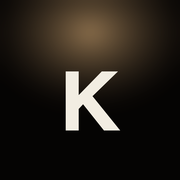
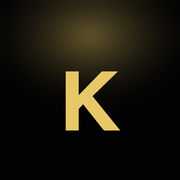
update

Changed region(s): [[0.25, 0.0, 0.75, 0.3056], [0.3611, 0.3889, 0.6667, 0.75]]

diff --git a/index.html b/index.html
@@ -5,26 +5,26 @@
 <meta name="viewport" content="width=device-width,initial-scale=1,viewport-fit=cover">
 <meta name="robots" content="noindex,nofollow">
 <meta name="referrer" content="no-referrer">
-<meta name="theme-color" content="#0c0907">
+<meta name="theme-color" content="#050505">
 <meta name="apple-mobile-web-app-capable" content="yes">
 <meta name="mobile-web-app-capable" content="yes">
 <meta name="apple-mobile-web-app-status-bar-style" content="black-translucent">
-<meta name="apple-mobile-web-app-title" content="Катин вечер">
+<meta name="apple-mobile-web-app-title" content="ДР Кати">
 <link rel="manifest" href="manifest.webmanifest">
 <link rel="apple-touch-icon" href="icon-180.png">
 <link rel="icon" href="icon-192.png">
-<title>Катин вечер</title>
+<title>День рождения Кати</title>
 <link rel="preconnect" href="https://fonts.googleapis.com">
 <link rel="stylesheet" href="https://fonts.googleapis.com/css2?family=Manrope:wght@400;500;600;700&display=swap">
 <style>
-/* App shell in VOLYO's language: top bar, screens, floating bottom menu with a round "+"; warm spotlight palette from Katya's photo */
+/* App shell in VOLYO's language: top bar, screens, floating bottom menu with a round "+"; deep black with gold accent */
 :root{
-  --bg:#0c0907; --fg:#F2EDE2; --muted:rgba(242,232,218,.58); --dim:rgba(242,232,218,.36);
+  --bg:#050505; --fg:#F2EDE2; --muted:rgba(242,232,218,.58); --dim:rgba(242,232,218,.36);
   --line:rgba(255,255,255,.08); --line-2:rgba(255,255,255,.14);
   --glass:linear-gradient(160deg,rgba(255,255,255,.04),rgba(255,255,255,.012)),rgba(0,0,0,.28);
   --hl:inset 0 1px 0 rgba(255,255,255,.06);
-  --amber:#e8a65c; --glow:#ffd394; --sage:#a9bb8c; --danger:#e07a6a;
-  --warm-line:rgba(255,214,150,.32);
+  --amber:#C9A227; --glow:#E8C766; --sage:#a9bb8c; --danger:#e07a6a;
+  --warm-line:rgba(212,175,55,.38);
   --font:Manrope,"Helvetica Neue",Arial,sans-serif;
   color-scheme:dark;
 }
@@ -36,7 +36,7 @@ body{margin:0;background:var(--bg);color:var(--fg);font-family:var(--font);font-
   padding-block:0 calc(120px + env(safe-area-inset-bottom,0px));min-height:100vh}
 body::before{content:"";position:fixed;inset:0 0 auto;height:env(safe-area-inset-top,0px);z-index:40;background:var(--bg)}
 body::after{content:"";position:fixed;z-index:-1;left:50%;top:-180px;width:min(760px,150vw);height:520px;transform:translateX(-50%);pointer-events:none;
-  background:radial-gradient(closest-side at 50% 30%,rgba(255,214,150,.30),rgba(232,166,92,.10) 45%,rgba(12,9,7,0) 75%)}
+  background:radial-gradient(closest-side at 50% 30%,rgba(232,199,102,.30),rgba(201,162,39,.10) 45%,rgba(5,5,5,0) 75%)}
 button,input,select,textarea{font:inherit;color:inherit}
 button{cursor:pointer}
 a{color:inherit}
@@ -47,14 +47,14 @@ svg.i{width:22px;height:22px;fill:none;stroke:currentColor;stroke-width:1.6;stro
 
 /* top bar */
 .top{position:sticky;top:env(safe-area-inset-top,0px);z-index:30;display:grid;grid-template-columns:40px 1fr auto;align-items:center;gap:12px;
-  padding:12px 0 10px;background:linear-gradient(var(--bg) 70%,rgba(12,9,7,0))}
+  padding:12px 0 10px;background:linear-gradient(var(--bg) 70%,rgba(5,5,5,0))}
 .circ{width:40px;height:40px;border-radius:50%;display:grid;place-items:center;background:var(--glass);border:1px solid rgba(255,255,255,.09);box-shadow:var(--hl);text-decoration:none;color:var(--fg);font-weight:600;font-size:15px}
-.circ.av{border-color:var(--warm-line);box-shadow:var(--hl),0 0 16px -6px rgba(255,190,110,.6);color:var(--glow)}
+.circ.av{border-color:var(--warm-line);box-shadow:var(--hl),0 0 16px -6px rgba(212,175,55,.6);color:var(--glow)}
 .brand{font-size:17px;font-weight:600;letter-spacing:-.01em;text-align:center;text-decoration:none;white-space:nowrap;overflow:hidden;text-overflow:ellipsis}
 .days{justify-self:end;font-size:12.5px;color:var(--muted);padding:7px 12px;border-radius:999px;background:rgba(255,255,255,.04);border:1px solid rgba(255,255,255,.08);white-space:nowrap;font-variant-numeric:tabular-nums}
 .days b{color:var(--glow);font-weight:600}
 
-.notice{border:1px solid var(--warm-line);background:rgba(232,166,92,.07);border-radius:14px;padding:12px 14px;font-size:13.5px;color:var(--glow);margin:4px 0 12px}
+.notice{border:1px solid var(--warm-line);background:rgba(201,162,39,.07);border-radius:14px;padding:12px 14px;font-size:13.5px;color:var(--glow);margin:4px 0 12px}
 
 /* screen headings */
 .hello{padding:14px 0 6px}
@@ -73,7 +73,7 @@ svg.i{width:22px;height:22px;fill:none;stroke:currentColor;stroke-width:1.6;stro
 /* glass surfaces */
 .card{background:var(--glass);border:1px solid rgba(255,255,255,.07);box-shadow:var(--hl),0 14px 34px -18px rgba(0,0,0,.6);border-radius:20px}
 a.card{display:block;text-decoration:none;color:var(--fg);transition:border-color .2s,box-shadow .2s}
-a.card:hover{border-color:rgba(255,214,150,.26);box-shadow:var(--hl),0 18px 40px -22px rgba(255,190,110,.35)}
+a.card:hover{border-color:rgba(232,199,102,.26);box-shadow:var(--hl),0 18px 40px -22px rgba(212,175,55,.35)}
 
 /* stat tiles */
 .stiles{display:grid;grid-template-columns:repeat(2,minmax(0,1fr));gap:12px;margin-top:18px}
@@ -143,7 +143,7 @@ a.card:hover{border-color:rgba(255,214,150,.26);box-shadow:var(--hl),0 18px 40px
 .chk,.st{width:22px;height:22px;margin:1px 0 0;align-self:start;border-radius:50%;border:1.5px solid rgba(255,255,255,.28);background:none;padding:0;display:grid;place-items:center}
 .chk[aria-checked="true"],.st[data-s="2"]{background:rgba(169,187,140,.14);border-color:var(--sage)}
 .chk[aria-checked="true"]::after,.st[data-s="2"]::after{content:"";width:8px;height:4px;border:1.8px solid var(--sage);border-top:0;border-right:0;transform:rotate(-45deg) translate(1px,-1px)}
-.st[data-s="1"]{border-color:var(--amber);box-shadow:0 0 10px -2px rgba(232,166,92,.6)}
+.st[data-s="1"]{border-color:var(--amber);box-shadow:0 0 10px -2px rgba(201,162,39,.6)}
 .st[data-s="1"]::after{content:"";width:8px;height:8px;border-radius:50%;background:var(--amber)}
 .st[data-s="3"]{border-style:dashed;border-color:rgba(255,255,255,.18)}
 .chk:hover,.st:hover{border-color:rgba(255,255,255,.5)}
@@ -181,7 +181,7 @@ a.card:hover{border-color:rgba(255,214,150,.26);box-shadow:var(--hl),0 18px 40px
 .empty{color:var(--dim);font-size:13.5px;padding:14px 2px}
 .add{display:flex;gap:8px;margin-top:12px}
 .add input{flex:1;min-width:0;background:rgba(255,255,255,.03);border:1px solid rgba(255,255,255,.09);border-radius:14px;padding:12px 14px;outline:none}
-.add input:focus{border-color:rgba(255,214,150,.4)}
+.add input:focus{border-color:rgba(232,199,102,.4)}
 .add button{flex:none;width:46px;border-radius:14px;border:1px solid rgba(255,255,255,.12);background:rgba(255,255,255,.04);display:grid;place-items:center}
 .add button:hover{border-color:var(--warm-line)}
 .pfoot{display:flex;justify-content:space-between;align-items:center;gap:12px;flex-wrap:wrap;margin-top:16px;font-size:13px;color:var(--muted)}
@@ -199,7 +199,7 @@ a.card:hover{border-color:rgba(255,214,150,.26);box-shadow:var(--hl),0 18px 40px
 .frow input:focus{border-color:var(--line-2);background:rgba(255,255,255,.03)}
 .newsec{padding:18px;display:flex;flex-direction:column;gap:10px}
 .newsec input,.newsec select{width:100%;background:rgba(255,255,255,.03);border:1px solid rgba(255,255,255,.09);border-radius:14px;padding:12px 14px;outline:none}
-.btn{border:1px solid var(--warm-line);background:rgba(255,255,255,.07);color:var(--fg);border-radius:14px;padding:12px 18px;font-weight:600;box-shadow:var(--hl),0 0 18px -8px rgba(255,190,110,.45)}
+.btn{border:1px solid var(--warm-line);background:rgba(255,255,255,.07);color:var(--fg);border-radius:14px;padding:12px 18px;font-weight:600;box-shadow:var(--hl),0 0 18px -8px rgba(212,175,55,.45)}
 .btn:hover{background:rgba(255,255,255,.1)}
 .note{color:var(--dim);font-size:12.5px;line-height:1.55;margin:18px 2px 0}
 .loading{color:var(--muted);padding:30px 2px}
@@ -207,31 +207,31 @@ a.card:hover{border-color:rgba(255,214,150,.26);box-shadow:var(--hl),0 18px 40px
 /* bottom menu */
 .nav{position:fixed;left:0;right:0;bottom:0;z-index:35;padding:0 max(14px,env(safe-area-inset-right,0px)) calc(12px + env(safe-area-inset-bottom,0px)) max(14px,env(safe-area-inset-left,0px));pointer-events:none}
 .nav .in{pointer-events:auto;max-width:520px;margin:0 auto;display:flex;align-items:center;gap:4px;padding:6px;border-radius:28px;
-  background:rgba(20,15,12,.86);backdrop-filter:blur(16px);-webkit-backdrop-filter:blur(16px);border:1px solid rgba(255,255,255,.08);box-shadow:0 14px 36px rgba(0,0,0,.6),var(--hl)}
+  background:rgba(12,12,12,.86);backdrop-filter:blur(16px);-webkit-backdrop-filter:blur(16px);border:1px solid rgba(255,255,255,.08);box-shadow:0 14px 36px rgba(0,0,0,.6),var(--hl)}
 .nav a{flex:1 1 0;min-width:0;display:flex;align-items:center;justify-content:center;gap:7px;height:50px;padding:0 8px;border-radius:22px;color:var(--dim);font-size:12.5px;font-weight:600;text-decoration:none;border:1px solid transparent;transition:color .2s,background .2s}
 .nav a span{display:none;white-space:nowrap;overflow:hidden;text-overflow:ellipsis}
 .nav a:hover{color:var(--fg)}
-.nav a.on{flex:0 0 auto;padding:0 16px 0 14px;color:var(--fg);background:linear-gradient(180deg,rgba(255,214,150,.14),rgba(232,166,92,.05));border-color:rgba(255,214,150,.24);box-shadow:inset 0 1px 0 rgba(255,255,255,.1),0 0 20px -8px rgba(255,190,110,.6)}
+.nav a.on{flex:0 0 auto;padding:0 16px 0 14px;color:var(--fg);background:linear-gradient(180deg,rgba(232,199,102,.14),rgba(201,162,39,.05));border-color:rgba(232,199,102,.24);box-shadow:inset 0 1px 0 rgba(255,255,255,.1),0 0 20px -8px rgba(212,175,55,.6)}
 .nav a.on span{display:inline}
 .nav a.on svg.i{color:var(--glow)}
-.nav .plus{flex:none;width:50px;height:50px;border-radius:50%;display:grid;place-items:center;color:var(--glow);background:rgba(255,255,255,.06);border:1px solid var(--warm-line);box-shadow:var(--hl),0 0 22px -6px rgba(255,190,110,.55)}
+.nav .plus{flex:none;width:50px;height:50px;border-radius:50%;display:grid;place-items:center;color:var(--glow);background:rgba(255,255,255,.06);border:1px solid var(--warm-line);box-shadow:var(--hl),0 0 22px -6px rgba(212,175,55,.55)}
 .nav .plus svg.i{width:24px;height:24px}
 @media (prefers-reduced-motion:reduce){.nav a{transition:none}}
 
 /* quick add sheet */
 .sheet-bg{position:fixed;inset:0;z-index:50;background:rgba(0,0,0,.55);display:flex;align-items:flex-end;justify-content:center}
 .sheet{width:100%;max-width:560px;margin:0 max(10px,env(safe-area-inset-left,0px));margin-bottom:calc(10px + env(safe-area-inset-bottom,0px));padding:10px 18px 18px;border-radius:24px;
-  background:linear-gradient(160deg,rgba(255,255,255,.05),rgba(255,255,255,.015)),#15100d;border:1px solid rgba(255,255,255,.09);box-shadow:0 -10px 40px rgba(0,0,0,.6),var(--hl)}
+  background:linear-gradient(160deg,rgba(255,255,255,.05),rgba(255,255,255,.015)),#0e0e0e;border:1px solid rgba(255,255,255,.09);box-shadow:0 -10px 40px rgba(0,0,0,.6),var(--hl)}
 .grab{width:38px;height:4px;border-radius:4px;background:rgba(255,255,255,.18);margin:0 auto 14px}
 .sheet h3{margin:0 0 4px;font-size:18px;font-weight:600}
 .sheet p{margin:0;color:var(--muted);font-size:13px}
 .sheet .chips{flex-wrap:wrap;overflow:visible}
 .sheet input{width:100%;margin-top:10px;background:rgba(255,255,255,.03);border:1px solid rgba(255,255,255,.1);border-radius:14px;padding:13px 14px;outline:none}
-.sheet input:focus{border-color:rgba(255,214,150,.4)}
+.sheet input:focus{border-color:rgba(232,199,102,.4)}
 .sheet .row{display:flex;gap:10px;margin-top:14px}
 .sheet .row .btn{flex:1}
 .ghost{border:1px solid rgba(255,255,255,.1);background:none;border-radius:14px;padding:12px 18px;color:var(--muted)}
-.toast{position:fixed;left:50%;bottom:calc(92px + env(safe-area-inset-bottom,0px));transform:translateX(-50%);z-index:60;background:#1a1410;border:1px solid var(--warm-line);color:var(--fg);padding:10px 16px;border-radius:999px;font-size:13.5px;box-shadow:0 10px 30px rgba(0,0,0,.5)}
+.toast{position:fixed;left:50%;bottom:calc(92px + env(safe-area-inset-bottom,0px));transform:translateX(-50%);z-index:60;background:#121212;border:1px solid var(--warm-line);color:var(--fg);padding:10px 16px;border-radius:999px;font-size:13.5px;box-shadow:0 10px 30px rgba(0,0,0,.5)}
 </style>
 </head>
 <body>
@@ -263,7 +263,7 @@ const timers = new Map();
 let api = null;
 const STATUS = ["идея","берём","готово","мимо"];
 const KINDNAME = { shop:"Покупки", ideas:"Идеи и задачи", plan:"План по времени" };
-const DEFAULT_META = { title:"Катин вечер", date:"29 декабря", place:"Загородный дом", guests:"", currency:"₽", team:"Вика, Люба, Данил" };
+const DEFAULT_META = { title:"День рождения Кати", date:"29 декабря", place:"Загородный дом", guests:"", currency:"₽", team:"Вика, Люба, Данил" };
 
 const $ = s => document.querySelector(s);
 const esc = v => String(v ?? "").replace(/[&<>"']/g, c => ({"&":"&amp;","<":"&lt;",">":"&gt;",'"':"&quot;","'":"&#39;"}[c]));
